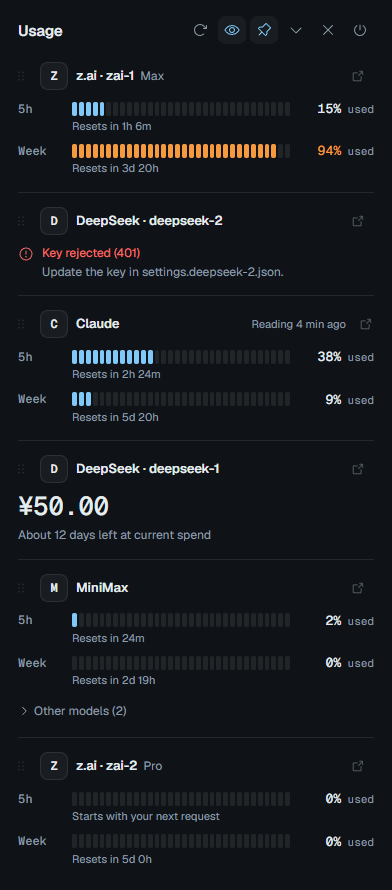
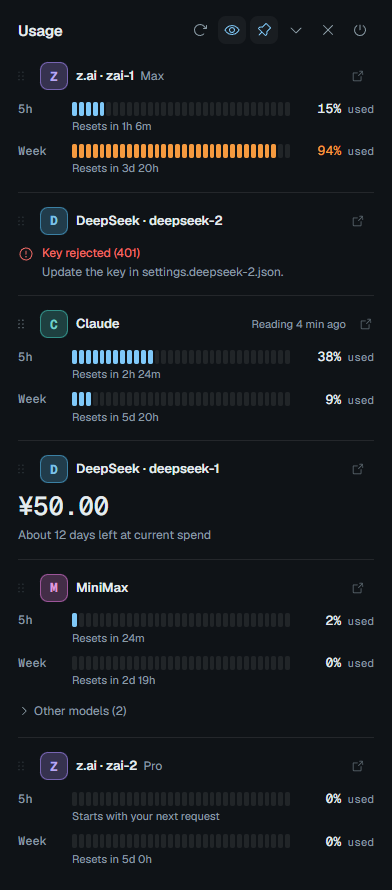
v0.4.39: a colour for each service badge, and a short update log
Badge hues stay clear of the orange and red used by the meters, and light mode
uses darker letters (measured above 4.5:1 in both themes).

diff --git a/src/renderer/style.css b/src/renderer/style.css
@@ -1,6 +1,6 @@
 /* PawGauge. Level meters are the one expressive element; everything else stays quiet.
    One radius scale: 8px surfaces/buttons, 2px meter segments. One accent (ice blue) for focus and toggles.
-   Green/amber/red appear only as meter state. */
+   Green/amber/red appear only as meter state; the service badge colours stay clear of orange and red. */
 
 :root {
   color-scheme: dark light;
@@ -18,6 +18,7 @@
   --warn: #f2b84b;
   --crit: #f26b66;
   --orange: #f59a3f;
+  --badge-ink: 62%; /* how much of a badge letter is the service colour; the rest is --text */
 
   --r: 8px;
   --r-seg: 2px;
@@ -36,6 +37,7 @@
     --warn: #a86a0f;
     --crit: #c2403b;
     --orange: #c2610f;
+    --badge-ink: 36%;
   }
 }
 
@@ -91,8 +93,13 @@ body { user-select: none; cursor: default; }
 
 /* Accounts, separated by space and a single rule, not boxed */
 .acct {
+  --hue: var(--muted); /* each service's badge colour: our own picks, only there to tell the letters apart */
   padding: 14px 0 15px;
 }
+.acct[data-provider='anthropic'] { --hue: #2fbdb0; }
+.acct[data-provider='zai'] { --hue: #9d7df5; }
+.acct[data-provider='minimax'] { --hue: #d767cf; }
+.acct[data-provider='deepseek'] { --hue: #3fa9e0; }
 .acct + .acct { border-top: 1px solid var(--line); }
 .acct.dragging { opacity: 0.55; }
 
@@ -126,10 +133,10 @@ body { user-select: none; cursor: default; }
   width: 28px;
   height: 28px;
   border-radius: var(--r);
-  border: 1px solid var(--line);
-  background: var(--surface);
-  color: var(--text);
-  font: 600 12px var(--font-mono);
+  border: 1px solid color-mix(in srgb, var(--hue) 55%, var(--line));
+  background: color-mix(in srgb, var(--hue) 22%, var(--surface));
+  color: color-mix(in srgb, var(--hue) var(--badge-ink), var(--text));
+  font: 700 13px var(--font-mono);
 }
 .name { font-weight: 600; font-size: 13px; letter-spacing: -0.005em; }
 .plan { margin-left: 6px; color: var(--muted); font-weight: 450; font-size: 12px; }

diff --git a/README.md b/README.md
@@ -113,6 +113,19 @@ A transparent, click-through window perches on the top edge of the panel (`src/m
 
 Her sprites are built from the official character master by `tools/make_sprites.py` and are not part of the MIT licence (see below).
 
+## Update log
+
+| Version | What's new |
+|---|---|
+| **0.4.39** | Coloured letter badge for each service |
+| **0.4.37** | Simpler app and tray icon |
+| **0.4.36** | Fixed: clicking ShadowBlack while she hides could do nothing |
+| **0.4.12 - 0.4.22** | Tuck PawGauge away at the left or right screen edge |
+| **0.4.9** | Drag the window, or collapse it to a small pill |
+| **0.4.7** | Renamed to PawGauge |
+| **0.4.3** | macOS support |
+| **0.3.0** | ShadowBlack arrives |
+
 ## Licence
 
 - **Code:** [MIT](LICENSE).
